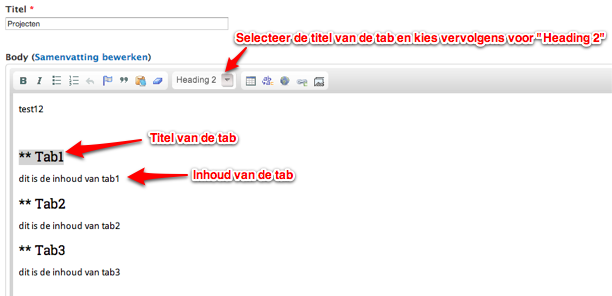
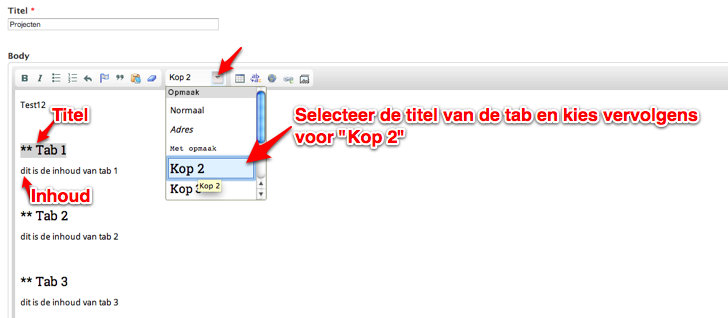
Handleiding: wysiwyg bijgewerkt

Changed region(s): [[0.0, 0.0, 1.0, 0.7905], [0.0, 0.8209, 0.2173, 0.973], [0.3105, 0.0304, 0.3725, 0.0608]]

diff --git a/docs/handleiding/content_management/wysiwyg.tex b/docs/handleiding/content_management/wysiwyg.tex
@@ -72,9 +72,13 @@ de WYSIWYG-editor kun je een (externe)pagina tonen op een pagina van \drupalpath
 \end{center}
 
 \subsubsection{Tabellen}
-Via de tabel knop kan een tabel worden ingevoegd. Via de dropdown koppen kan gekozen worden of de rij of kolom of beide.
+Via de \emph{tabel knop} kan een tabel worden ingevoegd. 
 \begin{center}
-	\includegraphics[scale=0.5]{img/tabellen1.png}
+	\includegraphics[width=\textwidth]{img/tabellen1.png}
+\end{center}
+Nadat je op de \emph{tabel knop} hebt geklikt verschijnt er een dialoog met verschillende opties. Als je klaar bent met het invullen van de tabel opties, klik dan op de knop \emph{OK} om de tabel in te voegen. De onderstaande afbeelding licht de opties in het kort toe.
+\begin{center}
+	\includegraphics[width=\textwidth]{img/tabellen2.png}
 \end{center}
 
 \subsubsection{(Externe)Links}
@@ -142,10 +146,10 @@ Let op: alleen eindredacteuren kunnen Full HTML nodes wijzigen.
 	\includegraphics[width=\textwidth]{img/youtube3.png}
 \end{center}
 
-\subsubsection{Media}
+\subsubsection{Afbeelding invoegen}
 
 \begin{center}
 	\includegraphics[width=\textwidth]{img/wysiwyg_add_media.png}
 \end{center}
 
-Voor het toevoegen van media via de WYSIWYG editor kan je dezelfde stappen volgen als voor \emph{Media}\seeone{media}. Het enige verschil is dat na het selecteren van de afbeelding er gekozen kan worden voor een afbeeldingsformaat, deze staan beschreven in hoofdstuk \emph{Afbeeldingsstijlen}\seeone{afbeeldingsstijlen}. De afbeelding met het gekozen formaat zal altijd links uitlijnen met een marge aan de rechterkant.
+Voor het toevoegen van een afbeelding via de WYSIWYG editor kun je dezelfde stappen volgen als voor \emph{Media}\seeone{media}. Het enige verschil is dat na het selecteren van de afbeelding er gekozen kan worden voor een afbeeldingsformaat, deze staan beschreven in hoofdstuk \emph{Afbeeldingsstijlen}\seeone{afbeeldingsstijlen}. De afbeelding met het gekozen formaat zal altijd links uitlijnen met een marge aan de rechterkant.

diff --git a/docs/handleiding/content_management/tabs.tex b/docs/handleiding/content_management/tabs.tex
@@ -9,7 +9,7 @@ Een tab moet opgebouwd worden uit twee delen: de titel van de tab en de content 
 \begin{enumerate}
 \item Vul twee asterisken in (**), gevold door een spatie en vul vervolgens de titel van de tab in (** Tab1).
 \item Selecteer met je muis de hele regel (zie afbeelding).
-\item Maak van deze selectie een \emph{H2} (heading 2).
+\item Maak van deze selectie een \emph{H2} (kop 2).
 \item Druk op de enter toets om naar de volgende regel toe te gaan, vul hier de inhoud van de tab in.
 \item Herhaal deze stappen indien je meerdere tabs wil toevoegen.
 \end{enumerate}
